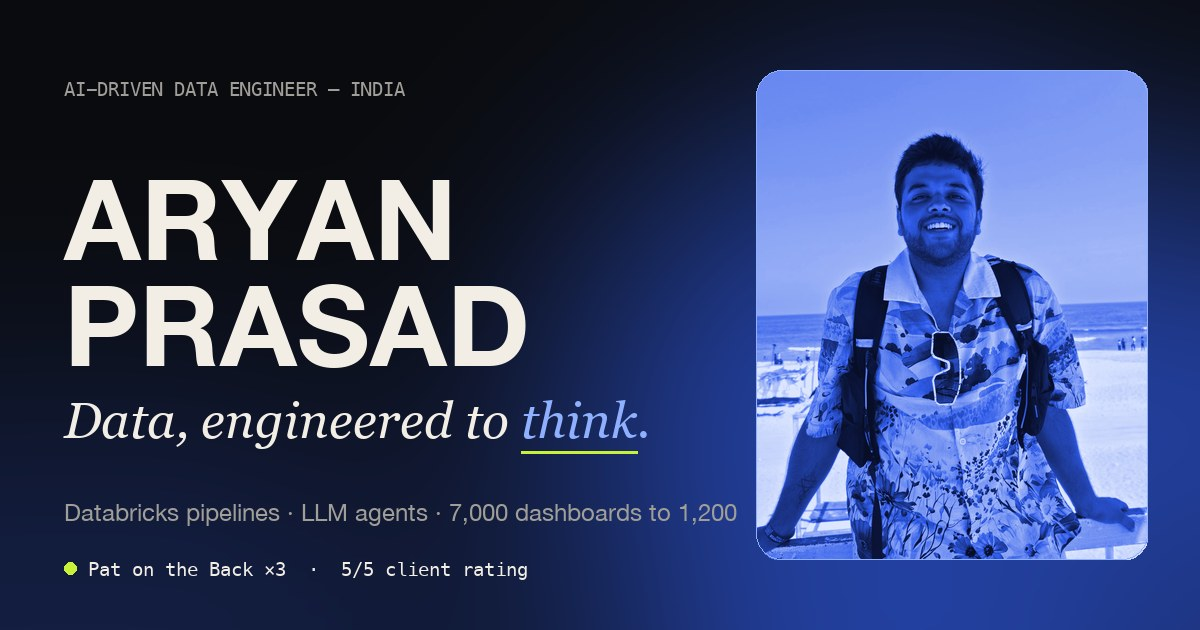
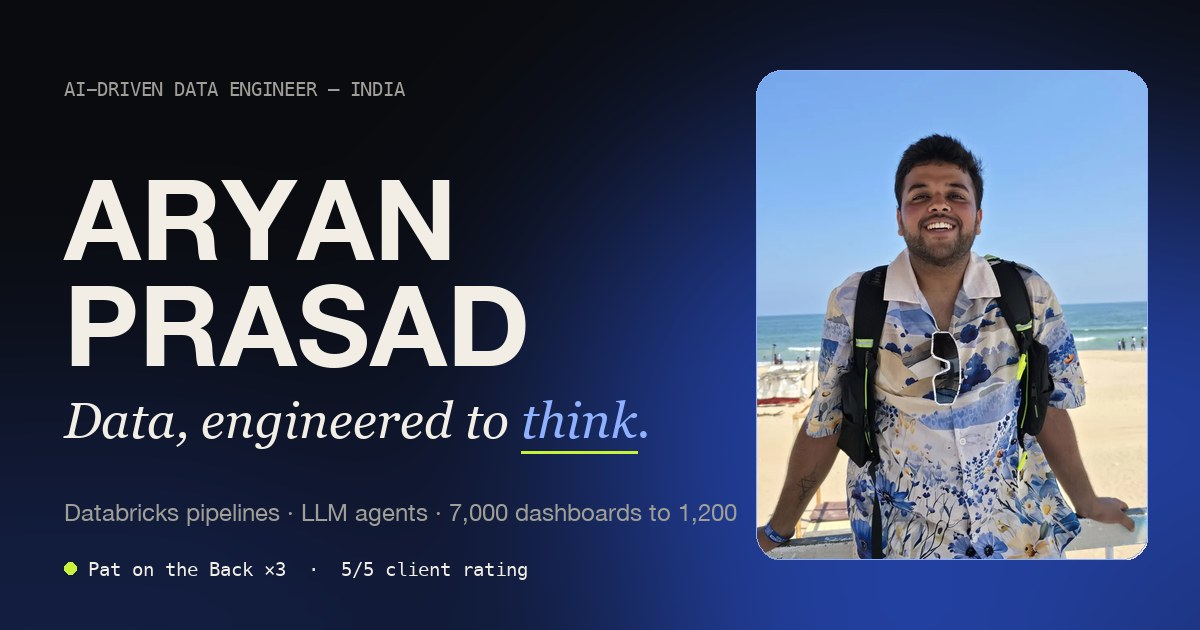
Fix mobile hero, tighten mobile spacing, show photos in colour
- The Act III scrim now fades in with Act III instead of dimming the hero name on phones
- Smaller section padding on mobile
- Film, story portrait and link-preview card use the natural-colour photo
- Pipeline chip text wraps on narrow screens

Changed region(s): [[0.6167, 0.0905, 0.9558, 0.9048]]

diff --git a/style.css b/style.css
@@ -256,15 +256,14 @@ ul, ol { list-style: none; }
   border-radius: 22px; overflow: hidden;
   box-shadow: 0 0 0 1px rgba(143, 176, 255, .25), 0 40px 120px rgba(47, 91, 234, .35);
 }
-.subject img { width: 100%; height: 100%; object-fit: cover; filter: grayscale(1) contrast(1.15) brightness(.95) blur(var(--sb, 0px)); }
+.subject img { width: 100%; height: 100%; object-fit: cover; filter: saturate(1.05) contrast(1.04) blur(var(--sb, 0px)); }
 .subject::after {
   content: ""; position: absolute; inset: 0;
-  background: linear-gradient(to bottom, rgba(47, 91, 234, .2), rgba(10, 11, 14, .55)), var(--cobalt);
-  mix-blend-mode: color; opacity: .9;
+  background: linear-gradient(to bottom, transparent 55%, rgba(10, 11, 14, .5));
 }
 .subject::before {
   content: ""; position: absolute; inset: 0; z-index: 1;
-  background: radial-gradient(120% 90% at 50% 30%, transparent 55%, rgba(10, 11, 14, .65));
+  background: radial-gradient(130% 95% at 50% 30%, transparent 65%, rgba(10, 11, 14, .45));
 }
 
 /* --- acts --- */
@@ -392,10 +391,8 @@ ul, ol { list-style: none; }
 .story__intro .label, .story__intro .h-xl, .story__lede { grid-column: 1; }
 .story__lede { color: var(--paper-dim); margin-top: 28px; max-width: 40ch; }
 .portrait { grid-column: 2; grid-row: 1 / span 3; position: relative; border-radius: 22px; overflow: hidden; transform-style: preserve-3d; will-change: transform; align-self: center; }
-.portrait img { width: 100%; aspect-ratio: 4 / 5; object-fit: cover; filter: grayscale(1) contrast(1.1); transition: filter .8s var(--ease), transform 1.2s var(--ease); }
-.portrait::after { content: ""; position: absolute; inset: 0; background: var(--cobalt); mix-blend-mode: color; opacity: .85; transition: opacity .8s var(--ease); pointer-events: none; }
-.portrait:hover img { filter: none; transform: scale(1.04); }
-.portrait:hover::after { opacity: 0; }
+.portrait img { width: 100%; aspect-ratio: 4 / 5; object-fit: cover; transition: transform 1.2s var(--ease); }
+.portrait:hover img { transform: scale(1.04); }
 .portrait figcaption { position: absolute; left: 14px; bottom: 14px; z-index: 2; padding: 8px 12px; border-radius: 999px; background: rgba(10, 11, 14, .6); backdrop-filter: blur(6px); text-transform: none; letter-spacing: .02em; }
 
 .timeline { display: flex; align-items: stretch; position: relative; height: 62vh; }
@@ -571,6 +568,8 @@ ul, ol { list-style: none; }
 }
 
 @media (max-width: 767px) {
+  :root { --section: clamp(64px, 9vh, 96px); }
+  .section-head { margin-bottom: 40px; }
   .nav { padding: 16px; }
   .nav__cta { padding: 8px 14px; }
 
@@ -581,7 +580,7 @@ ul, ol { list-style: none; }
   .act--2 { padding: 0 16px; }
   .act2-line { font-size: 11vw; }
   .act--3 { max-width: none; justify-content: flex-end; padding-bottom: 7vh; gap: 12px; }
-  .act--3::before { content: ""; position: absolute; inset: 40% 0 0; background: linear-gradient(to bottom, transparent, rgba(10, 11, 14, .92) 50%); z-index: -1; }
+  .act--3::before { content: ""; position: absolute; inset: 40% 0 0; background: linear-gradient(to bottom, transparent, rgba(10, 11, 14, .92) 50%); z-index: -1; opacity: var(--scrim, 0); }
   .hello { font-size: 15vw; }
   .hello-sub { font-size: 17px; }
   .pane { transform: rotateY(var(--a)) translateY(var(--y)) translateZ(calc(var(--r) * var(--spread) * .62px)) scale(calc(var(--ps) * .72)); }
@@ -598,7 +597,7 @@ ul, ol { list-style: none; }
   .mission__aside { grid-row: auto; }
   .glass-chip { padding: 12px 14px; }
   .glass-chip:nth-of-type(even) { margin-top: 18px; }
-  .glass-chip code { font-size: 11px; }
+  .glass-chip code { font-size: 11px; white-space: normal; }
 
   .pillar { grid-template-columns: 1fr; top: 10vh; min-height: auto; gap: 16px; }
   .pillar__num { font-size: 96px; }

diff --git a/index.html b/index.html
@@ -25,7 +25,7 @@
   <link rel="preconnect" href="https://fonts.gstatic.com" crossorigin>
   <link rel="stylesheet" href="https://fonts.googleapis.com/css2?family=Instrument+Serif:ital@0;1&family=Inter+Tight:wght@400;500;600;800&family=JetBrains+Mono:wght@400;500&display=swap">
   <link rel="preload" as="image" href="assets/img/portrait.webp">
-  <link rel="stylesheet" href="style.css?v=10">
+  <link rel="stylesheet" href="style.css?v=12">
 
   <script type="application/ld+json">
   {
@@ -43,7 +43,7 @@
   <script src="https://cdnjs.cloudflare.com/ajax/libs/gsap/3.12.5/gsap.min.js" defer></script>
   <script src="https://cdnjs.cloudflare.com/ajax/libs/gsap/3.12.5/ScrollTrigger.min.js" defer></script>
   <script src="https://unpkg.com/lenis@1.1.13/dist/lenis.min.js" defer></script>
-  <script src="script.js?v=10" defer></script>
+  <script src="script.js?v=12" defer></script>
 </head>
 <body>
   <a class="skip" href="#main">Skip to content</a>

diff --git a/script.js b/script.js
@@ -193,6 +193,7 @@
     const vars = { '--ry': '0deg', '--tilt': '-8deg', '--spread': 0.45, '--vis': 0.18, '--pz': '-520px', '--co': 1, '--so': 0, '--sb': '14px', '--sx': '0px', '--sy': '0px', '--sz': '0px', '--horizon': 0.8 };
     gsap.set(rig, vars);
     gsap.set('[data-act3]', { autoAlpha: 0, y: 40 });
+    gsap.set('.act--3', { '--scrim': 0 });
     gsap.set('.act2-line', { autoAlpha: 0, y: 50 });
 
     const tl = gsap.timeline({
@@ -240,6 +241,7 @@
         ? { '--sy': () => -innerHeight * 0.14 + 'px', duration: 16, ease: 'power2.inOut' }
         : { '--sx': () => innerWidth * 0.2 + 'px', duration: 16, ease: 'power2.inOut' }, 72)
       .to(rig, { '--horizon': 0.55, duration: 20 }, 70)
+      .to('.act--3', { '--scrim': 1, duration: 8 }, 72)
       .to('[data-act3]', { autoAlpha: 1, y: 0, duration: 8, stagger: 2, ease: 'power2.out' }, 76);
 
     // real-footage scrub rides the same 0–92 span
